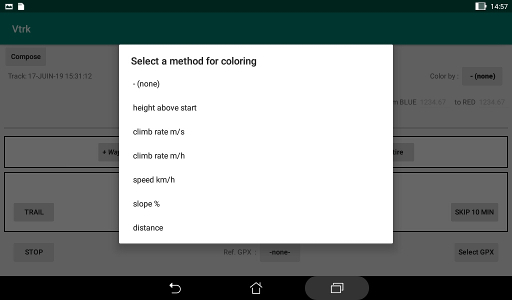
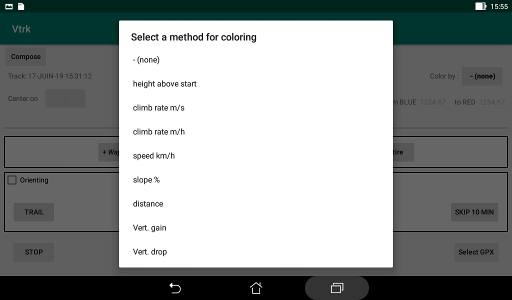
1.4 Orienting map + center + geo URI

diff --git a/Documents/Display.md b/Documents/Display.md
@@ -5,8 +5,9 @@ task using the current file as first merging candidate.
 
 Waypoints, routes and tracks could be displayed.
 
-Two modes of display are available for the tracks: "Entire" and "Vapor Trail".
-The waypoints and routes are always displayed as for the "Entire" mode.
+Two modes of display are available for the tracks: "**Entire**"
+and "**Vapor Trail**".
+The waypoints and routes are always displayed as for the "**Entire**" mode.
 
 The "**+ Waypoint**" button and the "**+ Route**" button performs the
 same function as the "**Entire**" button but, when the end of the file
@@ -20,7 +21,7 @@ and for a route.
 The application sends the instructions to Msb2Map for waypoints, routes
 and tracks starting from the beginning of the file as fast as
 permitted by the processing speed.  
-The map is centered on the first item to display.  
+The map is initially centered on the first item to display.  
 Processing of the file restarts from the beginning if it has
 been interrupted by a return from Msb2Map.
 
@@ -41,6 +42,14 @@ been interrupted by a return from Msb2Map.
 + Tracks: the tracks are displayed the same way as the routes.
 
 ![Routes](Gallery/Routes.jpg)
+
+#### Map center
+
+The name and location of each item (waypoint, route of track) is
+stored as it is displayed. At the return from Msb2Map it is possible
+to select which of theses items should be at the center of the map.  
+Thus, the selection of the center is only possible for the second
+and further entire mode sessions.
 
 
 ### "Vapor trail" mode
@@ -72,6 +81,12 @@ parameter used for the color scheme.
 
 ![Trail](Gallery/Trail.jpg)
 
+#### Orientation
+
+If the "**Orienting**" field has been checked on the main menu,
+the map is rotated to keep heading of the track to the top
+of the screen.
+
 ## Reference GPX
 
 A button at the bottom of the screen lets you select another
@@ -79,8 +94,9 @@ GPX file.
 
 This file could contain waypoints, routes and tracks. It is drawn first
 at each invocation of Msb2Map, before the main file.  
-The mode is equivalent to the "Entire" mode but the waypoints are
-drawn as magenta colored diabolos, the routes and tracks are displayed
+The mode for this file is equivalent to the "Entire" mode but
+the waypoints are drawn as magenta colored diabolos,
+the routes and tracks are displayed
 as lines with a uniform half-transparent magenta color.
 
 This could be used, for example, to compare a track to a route

diff --git a/README.md b/README.md
@@ -23,6 +23,12 @@ This application is a spin off of the
 [Msb2Kml](https://github.com/msb2kml/Msb2Kml/) application: the GPX
 files that it produce are compatible too.
 
+There is a fourth task that displays a single location on the map
+and that is activated by launching with an intent containing 
+an URI of the "geo" type.  
+Only the latitude and longitude are interpreted. Searching for
+a street address would need access to the internet.
+
 # Installation
 The application should be compiled from the sources in this repository
 or downloaded from the
@@ -33,7 +39,7 @@ VtrkXX.apk) should be transferred to the storage of the device
 the opportunity to install it.
 
 The Msb2Map application should be independently installed.
-Minimum version 1.6.
+Minimum version 1.7.
 
 # Permissions
 The Vtrk application needs to read the internal and the external storage.  
@@ -75,7 +81,10 @@ The parameter could be:
  Default range: -400.0 to 400.0.
 + "speed km/h" : Horizontal speed. Default range: 0.0 to 10.0.
 + "slope %" : Slope of the track. Default range: -40.0 to 40.0.
-+ "distance" : accumulated traveled distance (km).
++ "distance" : accumulated traveled distance (km). Default range: 0.0 to 10.0.
++ "Vert. gain" : sum of all the gains of altitude. Default range: 0 to 1000.
++ "Vert. drop" : sum of all the losses of altitude. Default range:
+ 0 to 1000.
 
 Each speed is smoothed by computing them from
 points separated by an interval of at least 10 seconds. 
@@ -115,6 +124,9 @@ parameter that is used for the color (or the altitude).
 There is a marker with a form of reticle at the current
 position: taping on this marker shows the current altitude.
 
+In this mode the map could be automatically rotated to keep the
+heading to the top of the screen.
+
 ![VaporTrail](Documents/Gallery/VaporTrail.jpg)
 
 # Waypoints
@@ -122,7 +134,7 @@ All waypoints are displayed, whatever the mode, as markers
 with the form of a diabolo. Taping on a marker display the name
 of the waypoint.  
 A waypoint is generated at the start of each track or route and has
-the name of its element.
+the name of its element. It is shown as a small black dot.
 
 ![RouteAndWpt](Documents/Gallery/RouteAndWpt.jpg)
 

diff --git a/Documents/Colors.md b/Documents/Colors.md
@@ -1,6 +1,6 @@
 # Color scheme
 
-The segments of line that draws the tracks could be colored in
+The segments of line that draws the tracks and routes could be colored in
 function of some parameter value.  
 The range of color goes from blue through green to red in 12 steps.  
 A correspondence is established between the color range and the range
@@ -9,20 +9,23 @@ of parameter but the user has the last word.
 If no color scheme is selected, the segment is red for an altitude
 rising and blue for lowering altitude.
 
-### Available parameters
+### Available parameters for tracks
 
 ![Color](Gallery/Color.jpg)
 
 + "height above start" : height (m) relative to the first point
- of the track. Default range: -200 to 200.
+ of the track or route. Default range: -200 to 200.
 + "climb rate m/s" : vertical speed, more appropriate to an
  R/C model or a glider. Default range: -2.0 to 2.0.
 + "climb rate m/h" : vertical speed, appropriate for hiking.
  Default range: -400.0 to 400.0.
 + "speed km/h" : horizontal speed. Default range: 0.0 to 10.0.
-+ "slope" : slope of the track. Default range: -40.0 to 40.0.
++ "slope %" : slope of the track. Default range: -40.0 to 40.0.
 + "distance" : accumulated traveled distance (km).
  Default range: 0.0 to 10.0.
++ "Vert. gain" : sum of all the gains of altitude. Default range: 0 to 1000.
++ "Vert. drop" : sum of all the losses of altitude. Default range:
+ 0 to 1000.
 
 These parameters are computed as needed.  
 The speed is smoothed by computing it from points separated by
@@ -36,7 +39,8 @@ The default color for routes is the black color.
 They could be colored following the "distance" parameter.
 
 If the altitude of each point of a route is specified, the route
-could be colored with the "height above start" or the "slope" parameters.
+could be colored with the "height above start", the "slope",
+the "Vert. gain" or the "Vert. drop" parameters.
 
 The other parameters are not usable as there is no time
 processed for the routes.

diff --git a/Documents/File.md b/Documents/File.md
@@ -5,10 +5,10 @@ internal module analog to a specialized  file explorer.
 It allows the navigation in a hierarchy of directories.  
 
 The content of the current directory is presented as a listing.
-The first entry is labeled "../  (up)" and gives access to the
+The first entry is labeled "**../  (up)**" and gives access to the
 parent directory.  
 And the next entries are the names of the sub directories padded
-with a "/" character and allow the descent in the hierarchy.  
+with a "/" character and allows the descent in the hierarchy.  
 They are followed by the names of the files that could be selected.
 Only GPX type files are shown.  
 The entries are alphabetically ordered.
@@ -24,9 +24,6 @@ previously used with this application.
 ### Cancel
 
 The "Cancel" button could be used to terminate the application.  
-But an opportunity is offered before effective termination to
-work without any displayed file to create new waypoints or a
-new route.
 
 ### Hierarchy roots
 
@@ -53,10 +50,11 @@ of directories.
 ### Writing
 
 If the application has been used to create new waypoints or a new route,
+or to compose a new file,
 the same module is used to allow the choice of a file to store
 the new items.  
 It is possible to overwrite or to append to the selected file if it
 already exists.  
-There is also a button "New" to let you create a new file in the
+There is also a button "**New**" to let you create a new file in the
 current directory.
 

diff --git a/Documents/Composition.md b/Documents/Composition.md
@@ -14,10 +14,10 @@ in the merged set when the **PROCEED** button is used.
 Then the next file could be processed or the storage phase
 could be started.
 
-All items that have been merged are stored in a temporary file
-and a permanent file has to be selected with the common file module.  
+All items that have been merged are stored in a temporary file.
+A permanent file has to be selected with the common file module.  
 A button lets you select the first merged file as destination.
-A **New** button is displayed if the right to write in the current
+Another **New** button is displayed if the right to write in the current
 directory is granted.  
 If the destination file already exists, you have to confirm that it
 could be overwritten and if an error occurs while writing the file you

diff --git a/Documents/Picking.md b/Documents/Picking.md
@@ -24,7 +24,7 @@ A file to store the new items has to be selected at the return
 from the picking session.  
 A new file could be created in the current directory.  
 Or an existing file could be selected: the content of
-this file could then be completely overwrite or the new data could
+this file could then be completely overwritten or the new data could
 be added near the end of the file.  
 The currently displayed file could also be selected.  
 An alternative file could be selected if there is an error: the file
